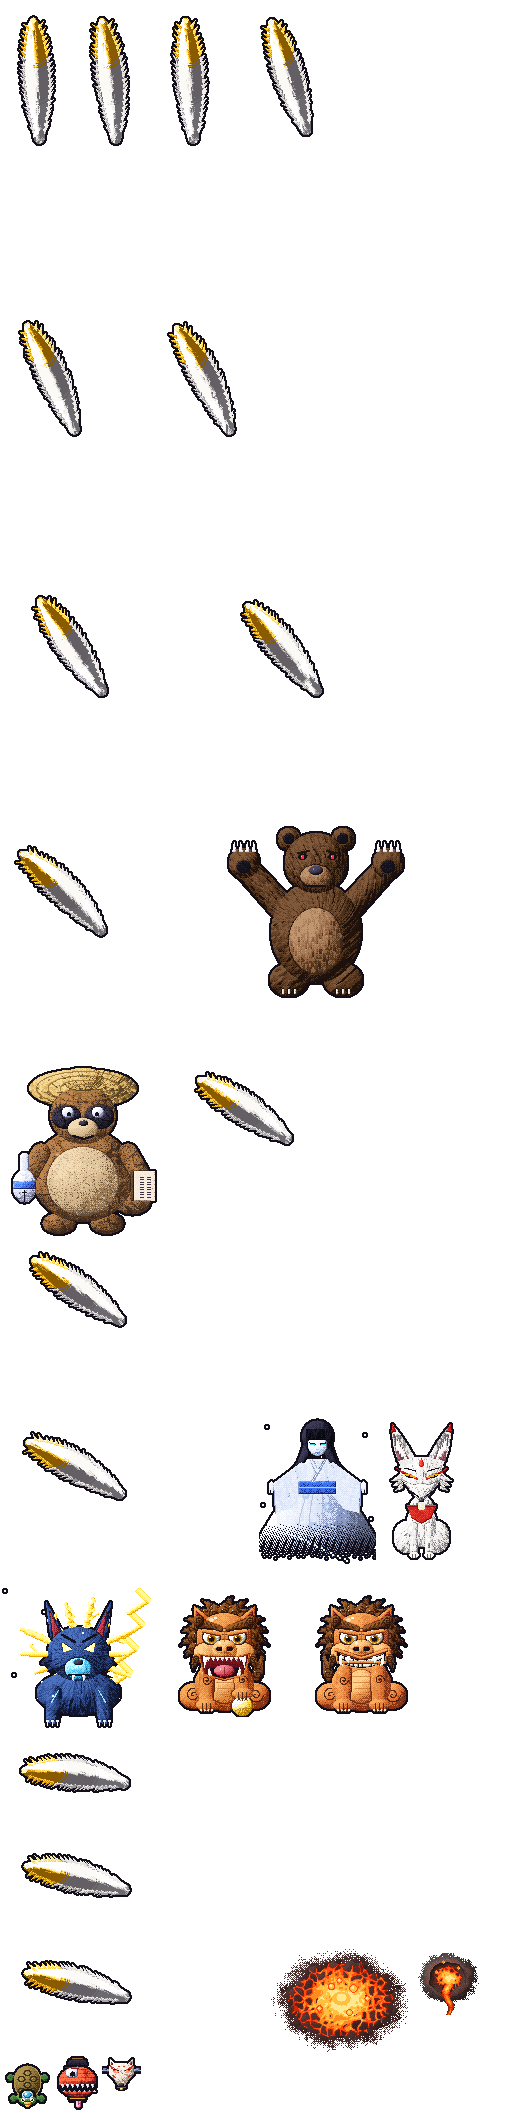
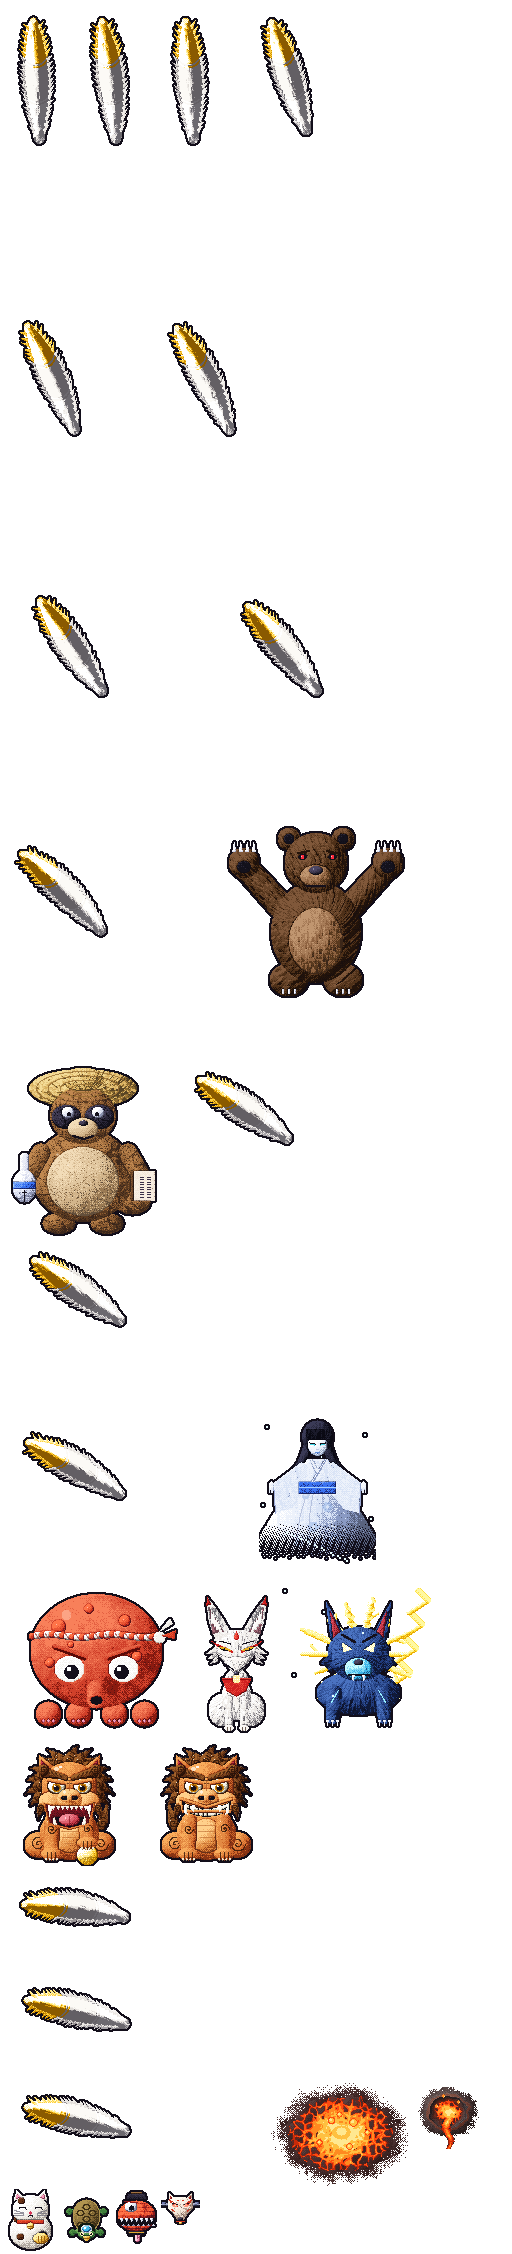
Osaka enemies at 540 px: takoyaki, Dōtonbori fugu lantern, kushikatsu, candy in cellophane, maneki-neko, the bunraku samurai and his kuroko, the octopus in its hachimaki
Claude-Session: https://claude.ai/code/session_01MRa5UEHufJmpkQZTQUStvb

diff --git a/src/game/enemyArt.js b/src/game/enemyArt.js
@@ -53,6 +53,10 @@ export const CITY_ANIMS = {
   kazan: [four('kazan'), 8], kazan_s: [four('kazan_s'), 10], teppo: [four('teppo'), 10], kappa: [four('kappa'), 7],
   ripple: [['ripple_0', 'ripple_1', 'ripple_2'], 6], raiju: [four('raiju'), 10],
   vent: [['vent_0', 'vent_1'], 4], crater: [['crater_0', 'crater_1'], 3],
+  // Osaka
+  takoyaki: [four('takoyaki'), 8], fugu: [four('fugu'), 5], kushi: [four('kushi'), 12],
+  kuroko: [['kuroko_0', 'kuroko_1'], 3], tako: [['tako_0', 'tako_1'], 2],
+  ...Object.fromEntries(['red', 'blue', 'green'].map((c) => [`ame_${c}`, [four(`ame_${c}`), 8]])),
 };
 
 /** Kyūbi's tails: how many swaying frames each one has in the atlas it comes from. */
